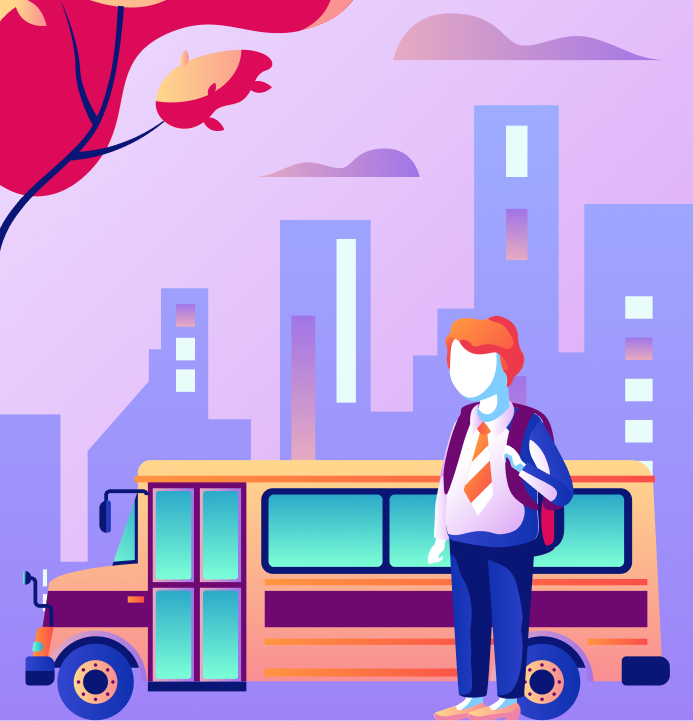
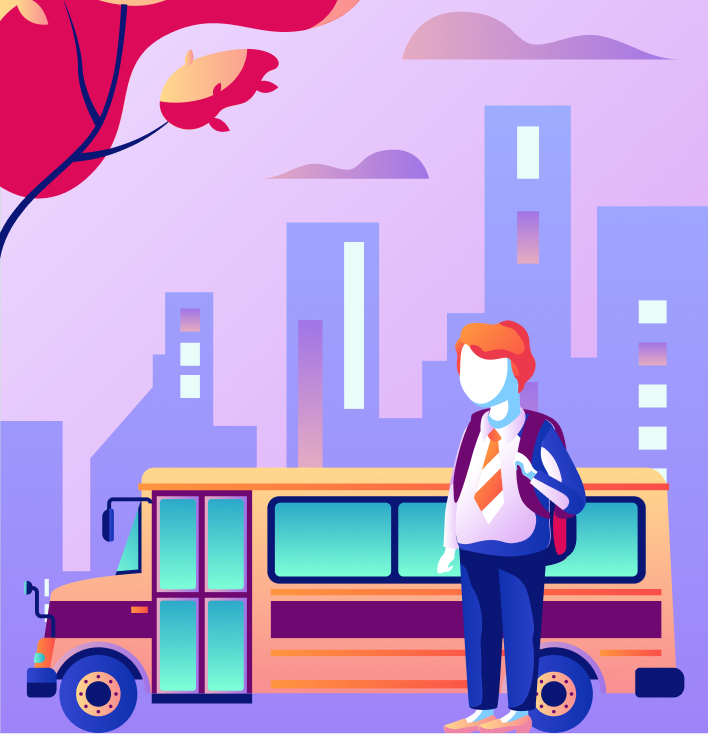
Added layout changes

diff --git a/lib/main.dart b/lib/main.dart
@@ -54,6 +54,8 @@ class _MyHomePageState extends State<MyHomePage> {
         MaterialPageRoute(builder: (context) => SecondScreen(data: data)));
   }
 
+  
+
   @override
   Widget build(BuildContext context) {
     return Scaffold(
@@ -62,7 +64,15 @@ class _MyHomePageState extends State<MyHomePage> {
           mainAxisAlignment: MainAxisAlignment.start,
           crossAxisAlignment: CrossAxisAlignment.stretch,
           children: <Widget>[
-            Image.asset("assets/images/img1.png"),
+            Container(
+              height: MediaQuery.of(context).size.height/2,
+              decoration: BoxDecoration(
+                image: DecorationImage(
+                  image: AssetImage('assets/images/img1.png'),
+                  fit: BoxFit.fill
+                ),
+              ),
+            ),
             Container (
               padding: EdgeInsets.only(top: 10.0, left: 30.0, right: 30.0), 
               child: FormBuilder(
@@ -73,15 +83,21 @@ class _MyHomePageState extends State<MyHomePage> {
                     FormBuilderTextField(
                       attribute: "name",
                       maxLines: 1,
-                      decoration: InputDecoration(labelText: "Full Name"),
+                      decoration: InputDecoration(
+                        labelText: "Full Name",
+                        labelStyle: TextStyle(fontSize: 18),
+                        border: UnderlineInputBorder() 
+                      ),
                       validators: [FormBuilderValidators.required()],
                     ),
                     SizedBox(height: 30.0),
-
                     FormBuilderDropdown(
                       attribute: "job",
                       hint: Text('Select Job'),
-                      decoration: InputDecoration(filled: true, border: InputBorder.none),
+                      decoration: InputDecoration(
+                        filled: true, 
+                        border: InputBorder.none
+                      ),
                       validators: [FormBuilderValidators.required()],
                       iconSize: 0,
                       items: [
@@ -100,38 +116,47 @@ class _MyHomePageState extends State<MyHomePage> {
                       attribute: "date",
                       inputType: InputType.date,
                       format: DateFormat("dd-MM-yyyy"),
+                      firstDate: DateTime(1900),
+                      lastDate: DateTime.now().add(Duration(hours: 1)),
                       validators: [FormBuilderValidators.required()],
-                      decoration: InputDecoration(labelText: "Date of birth"),
-                    ),
-                    SizedBox(height: 20.0),
-
-                    MaterialButton(
-                      onPressed: () {
-                        if (_fbKey.currentState.saveAndValidate()) {
-                          _sendDataToSecondScreen(context);
-                        }
-                      },
-                      splashColor: Colors.transparent,  
-                      highlightColor: Colors.transparent,
-                      child: Container(
-                        decoration: BoxDecoration(
-                          shape: BoxShape.circle,
-                          gradient: LinearGradient(
-                            colors: <Color>[
-                              Color(0xFFA074E7),
-                              Color(0xFFE6ABC1),
-                            ],
-                            begin: Alignment.topCenter,
-                            end: Alignment.bottomCenter,
-                          ),
-                        ),
-                        child: Icon(
-                          Icons.arrow_right,
-                          color: Colors.white,
-                          size: 30.0,
-                        ),
+                      decoration: InputDecoration(
+                        labelText: "Date of birth",
+                        labelStyle: TextStyle(fontSize: 18)
                       ),
                     ),
+                    SizedBox(height: 40.0),
+                    Row(
+                      mainAxisAlignment: MainAxisAlignment.center,
+                      crossAxisAlignment: CrossAxisAlignment.center,
+                      children: <Widget>[
+                        Image.asset('assets/images/arrowL.png', width:10, height: 20, fit: BoxFit.contain),
+                        SizedBox(width: 40.0),
+                        Image.asset('assets/images/circle2.png', width:10, height: 10, fit: BoxFit.contain),
+                        SizedBox(width: 10.0),
+                        Image.asset('assets/images/circle1.png', width:10, height: 10, fit: BoxFit.contain),
+                        MaterialButton(
+                          onPressed: () {
+                            if (_fbKey.currentState.saveAndValidate()) {
+                              _sendDataToSecondScreen(context);
+                            }
+                          },
+                          child: Container( 
+                            decoration: BoxDecoration(
+                              shape: BoxShape.circle,
+                              gradient: LinearGradient(
+                                colors: <Color>[
+                                  Color(0xFFA074E7),
+                                  Color(0xFFE6ABC1),
+                                ],
+                                begin: Alignment.topCenter,
+                                end: Alignment.bottomCenter,
+                              ),
+                            ),
+                            child: Icon(Icons.arrow_right, size: 20, color: Colors.white)
+                          ),
+                        ),
+                      ]
+                    )
                   ],
                 ),
               ),
@@ -152,10 +177,20 @@ class SecondScreen extends StatelessWidget {
   Widget build(BuildContext context) {
     return Scaffold(
       body: Column(
+        mainAxisAlignment: MainAxisAlignment.start,
+        crossAxisAlignment: CrossAxisAlignment.start,
         children: <Widget>[
-          Image.asset("assets/images/img2.png"),
           Container(
-            padding: EdgeInsets.all(30),
+            height: MediaQuery.of(context).size.height/2,
+            decoration: BoxDecoration(
+              image: DecorationImage(
+                image: AssetImage('assets/images/img2.png'),
+                fit: BoxFit.fill
+              ),
+            ),
+          ),
+          Container(
+            padding: EdgeInsets.only(top: 30.0, left: 30.0, right: 30.0),
             child: Column(
               mainAxisAlignment: MainAxisAlignment.start,
               crossAxisAlignment: CrossAxisAlignment.start,
@@ -165,7 +200,7 @@ class SecondScreen extends StatelessWidget {
                   overflow: TextOverflow.ellipsis,
                   style: TextStyle(
                     fontFamily: 'OpenSans',
-                    fontSize: 36,
+                    fontSize: 32,
                   ),
                 ),
                 SizedBox(height: 20.0),
@@ -173,7 +208,7 @@ class SecondScreen extends StatelessWidget {
                   data.personJob,
                   style: TextStyle(
                     fontFamily: 'OpenSans',
-                    fontSize: 36,
+                    fontSize: 32,
                   ),
                 ),
                 SizedBox(height: 20.0),
@@ -181,9 +216,29 @@ class SecondScreen extends StatelessWidget {
                   data.personAge.toString() + " anos",
                   style: TextStyle(
                     fontFamily: 'OpenSans',
-                    fontSize: 36,
+                    fontSize: 32,
                   ),
                 ),
+                SizedBox(height: 62.0),
+                Row(
+                  mainAxisAlignment: MainAxisAlignment.center,
+                  crossAxisAlignment: CrossAxisAlignment.center,
+                  children: <Widget>[
+                    Icon(Icons.arrow_left, size: 40, color: Color(0xFFD4E1F3)),
+                    SizedBox(width: 40.0),
+                    Image.asset('assets/images/circle4.png', width:10, height: 10, fit: BoxFit.contain),
+                    SizedBox(width: 10.0),
+                    Image.asset('assets/images/circle3.png', width:10, height: 10, fit: BoxFit.contain),
+                    SizedBox(width: 40.0),
+                    Container( 
+                      decoration: BoxDecoration(
+                        shape: BoxShape.circle,
+                        color: Color(0xFFD4E1F3)
+                      ),
+                      child: Icon(Icons.arrow_right, size: 20, color: Color(0xFF0D2945))
+                    ),
+                  ]
+                )
               ],
             ),
           ),
